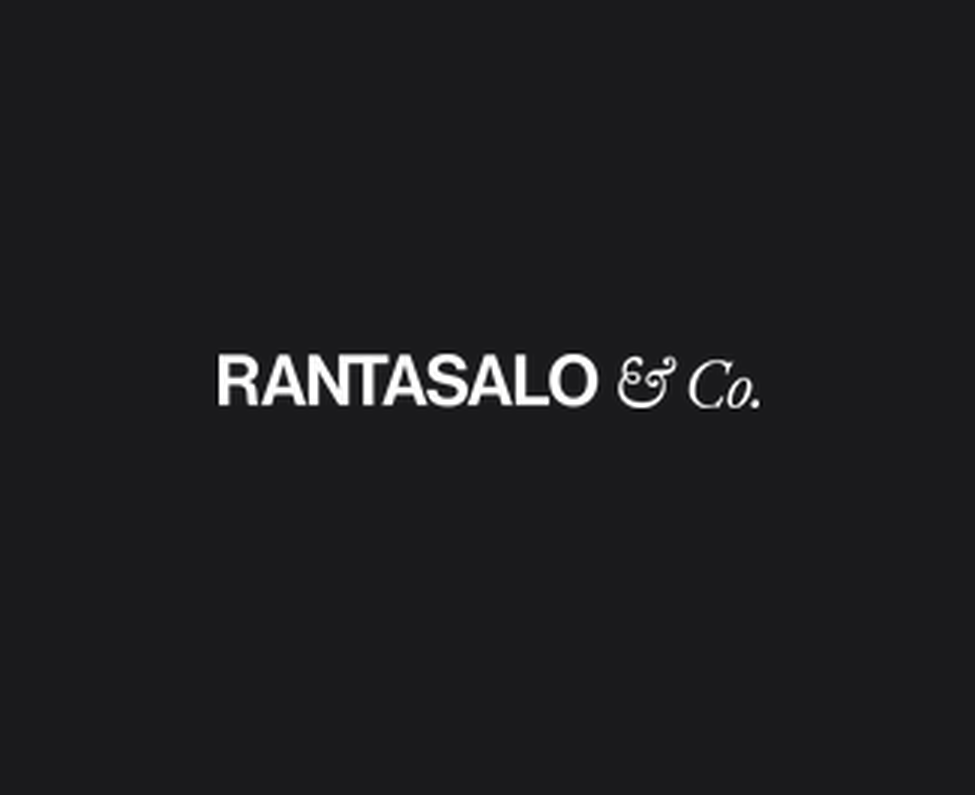
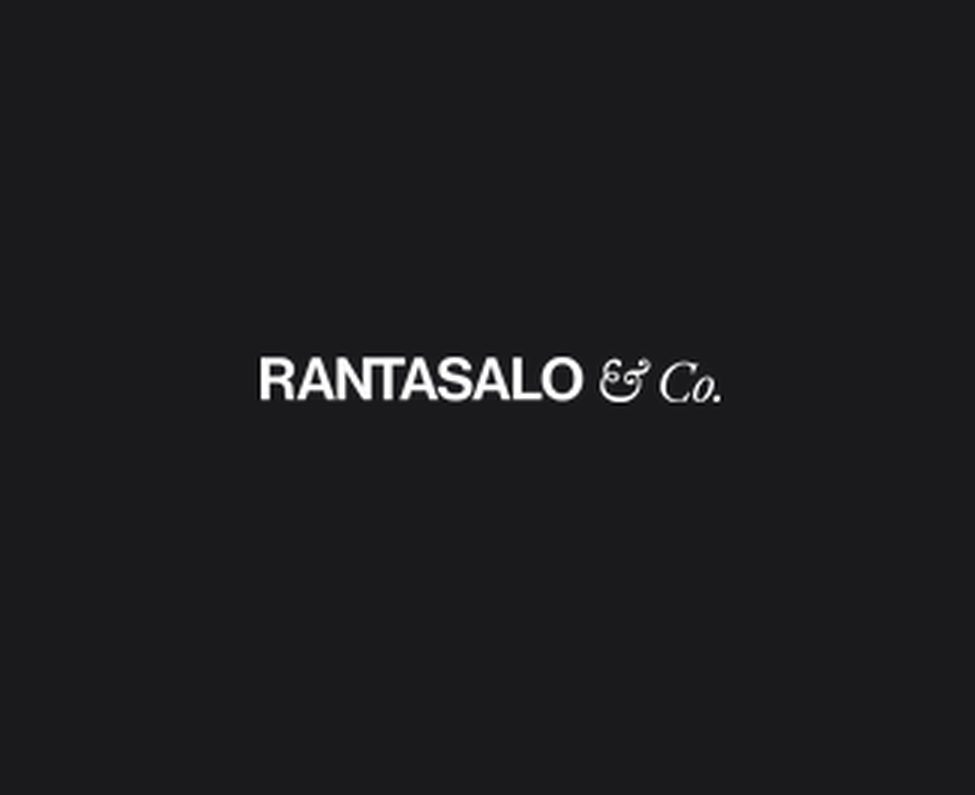
Shrink the wordmark and add a front-door variant
The wordmark drops from 180 px to 153 px, widening the hood's side
margins from 26 px to 40 px. It now covers 53% of the hood island.

Rantasalo_Sides.png puts the same mark on the left and right front
doors instead, leaving the hood clean. Both variants share one length,
because the hood island and the door islands come out at roughly the
same pixels-per-millimetre, so the mark lands at about 80 cm on the car
either way.

The sides are laid out with the front of the car at the top and the roof
towards the middle of the texture, so the two doors take opposite
quarter turns. Relative to the car the text runs front-to-back on the
left and back-to-front on the right, which is what makes it read left to
right from either side. Each mark sits 55% up the door's full-height
band, just above centre the way vehicle lettering usually does.

build_wrap.py now locates the hood and both front doors from the
template itself and builds both variants, checking each mark against
the panel it is meant to be on. preview_doors.png shows each side in
the orientation you see it in, with the panel outlines kept so the
placement is checkable.

Claude-Session: https://claude.ai/code/session_014td8M9stvSXqYS2ebTFEZJ

Changed region(s): [[0.2154, 0.4226, 0.8, 0.5132]]

diff --git a/model3/custom/build_wrap.py b/model3/custom/build_wrap.py
@@ -1,15 +1,14 @@
 #!/usr/bin/env python3
-"""Build the Rantasalo & Co. wrap for a Model 3 (2017-2023).
+"""Build the Rantasalo & Co. wraps for a Model 3 (2017-2023).
 
 Renders the RANTASALO & Co. wordmark from the source PDF, inverts it to
-white, and lays it out on the hood panel of model3/template.png.
+white, and lays it out on model3/template.png in two variants: the mark on
+the hood, or the mark on the left and right front doors.
 
     pip install pillow numpy pymupdf
     python3 build_wrap.py
 
-Outputs Rantasalo_Black.png (the wrap), Rantasalo_Logo_White.png (the
-inverted wordmark on transparency) and preview.png (the wrap with the
-template outline on top, to check panel alignment).
+Writes both wraps, the inverted wordmark for reuse, and previews.
 """
 
 from collections import deque
@@ -32,11 +31,23 @@ SIZE = 1024                 # texture is 1024x1024, same as the template
 # cool rather than dead neutral.
 BACKGROUND = (26, 26, 28)
 INK = (255, 255, 255)       # wordmark colour
-OUTLINE = (92, 92, 92)      # panel outlines, preview.png only
+OUTLINE = (92, 92, 92)      # panel outlines, previews only
 
-LOGO_WIDTH = 180            # wordmark width in texture pixels (~62% of hood width)
-LOGO_CENTER_Y = 293         # texture row the wordmark is centred on
-HOOD_CENTER_X = 511.5       # the hood UV island is symmetric about this column
+# Wordmark length in texture pixels, shared by both variants so they read at
+# the same physical size on the car: the hood island and the door islands work
+# out to roughly the same pixels-per-millimetre.
+LOGO_LENGTH = 153
+
+HOOD_CENTER_Y = 293         # texture row the hood mark is centred on
+SIDE_HEIGHT_FRAC = 0.55     # up the door, 0 at the rocker and 1 at the belt line
+
+# PIL rotates counter-clockwise. The nose of the car is the top of the hood
+# island, so the hood mark is turned 180 to read the right way up from in front
+# of the car. The sides are laid out with the front of the car at the top and
+# the roof towards the middle of the texture, which puts the two doors in
+# opposite quarter turns: each one reads left to right for somebody standing on
+# that side of the car.
+TURN_HOOD, TURN_LEFT, TURN_RIGHT = 180, -90, 90
 
 
 def panel_masks(path):
@@ -68,20 +79,29 @@ def panel_masks(path):
     return masks
 
 
-def hood_mask(path):
-    """The hood is the panel just below the front fascia on the centre line.
+def find_panels(path):
+    """Pick out the hood and the two front doors.
 
     Centre-line islands run front to back down the middle of the texture:
-    fascia, hood, (glass roof), rear deck, rear bumper. The hood is the
-    upper of the two tall centre islands.
+    fascia, hood, (glass roof), rear deck, rear bumper. The sides are stacked
+    down each edge, front door above rear door.
     """
-    centre = []
+    hood, doors = [], []
     for mask in panel_masks(path):
         ys, xs = np.where(mask)
-        if abs((xs.min() + xs.max()) / 2 - SIZE / 2) < 20 and np.ptp(ys) > 150:
-            centre.append((ys.min(), mask))
-    centre.sort(key=lambda item: item[0])
-    return centre[0][1]
+        cx, top, height = (xs.min() + xs.max()) / 2, ys.min(), np.ptp(ys)
+
+        if abs(cx - SIZE / 2) < 20 and height > 150:
+            hood.append((top, mask))
+        elif abs(cx - SIZE / 2) > 200 and height < 300 and len(ys) > 20000:
+            doors.append((top, cx, mask))
+
+    hood.sort(key=lambda item: item[0])
+    doors.sort(key=lambda item: item[0])
+    front = doors[:2]                              # front doors sit above rear
+    left = min(front, key=lambda item: item[1])[2]
+    right = max(front, key=lambda item: item[1])[2]
+    return hood[0][1], left, right
 
 
 def logo_alpha(pdf_path, scale=8):
@@ -99,57 +119,121 @@ def logo_alpha(pdf_path, scale=8):
     return coverage / coverage.max()
 
 
-def main():
-    hood = hood_mask(TEMPLATE)
-    ys, xs = np.where(hood)
-    print(f"hood island: x {xs.min()}-{xs.max()}, y {ys.min()}-{ys.max()}")
+def hood_anchor(panel):
+    """Centre line of the hood island, at the chosen row."""
+    xs = np.where(panel[HOOD_CENTER_Y])[0]
+    return (xs.min() + xs.max()) / 2, HOOD_CENTER_Y
 
-    coverage = logo_alpha(LOGO_PDF)
+
+def door_anchor(panel, frac=SIDE_HEIGHT_FRAC):
+    """A point part way up a door, centred along the length of the car.
+
+    Columns are heights on the car. Whichever edge of the door sits nearer the
+    middle of the texture is the belt line; the outer edge is the rocker.
+    """
+    cols = np.where(panel.any(0))[0]
+    runs = {x: np.ptp(np.where(panel[:, x])[0]) + 1 for x in cols}
+    band = [x for x in cols if runs[x] >= 0.9 * max(runs.values())]
+
+    lo, hi = min(band), max(band)
+    belt, rocker = (lo, hi) if abs(lo - SIZE / 2) < abs(hi - SIZE / 2) else (hi, lo)
+
+    x = int(round(rocker + frac * (belt - rocker)))
+    rows = np.where(panel[:, x])[0]
+    return x, (rows.min() + rows.max()) / 2
+
+
+def stamp(canvas, coverage, turn, anchor, panel, what):
+    """Paint the wordmark into a coverage canvas, centred on anchor."""
     aspect = coverage.shape[1] / coverage.shape[0]
-    height = max(1, round(LOGO_WIDTH / aspect))
+    thickness = max(1, round(LOGO_LENGTH / aspect))
 
-    # Sits on the hood the right way up for someone standing in front of the
-    # car: the nose is the top of the UV island, so the mark is rotated 180.
     mark = Image.fromarray((coverage * 255).astype(np.uint8), "L")
-    mark = mark.resize((LOGO_WIDTH, height), Image.LANCZOS).rotate(180)
+    mark = mark.resize((LOGO_LENGTH, thickness), Image.LANCZOS).rotate(turn, expand=True)
+    art = np.array(mark).astype(np.float64) / 255.0
 
-    x0 = int(round(HOOD_CENTER_X - LOGO_WIDTH / 2))
-    y0 = int(round(LOGO_CENTER_Y - height / 2))
+    h, w = art.shape
+    x0 = int(round(anchor[0] - w / 2))
+    y0 = int(round(anchor[1] - h / 2))
+    window = canvas[y0:y0 + h, x0:x0 + w]
+    np.maximum(window, art, out=window)
 
-    mask = np.zeros((SIZE, SIZE), np.float64)
-    mask[y0:y0 + height, x0:x0 + LOGO_WIDTH] = np.array(mark) / 255.0
+    spill = np.zeros_like(canvas, bool)
+    spill[y0:y0 + h, x0:x0 + w] = art > 0.02
+    if not panel[spill].all():
+        raise SystemExit(f"wordmark spills off the {what} panel")
+    print(f"  {what}: {LOGO_LENGTH}x{thickness} at ({x0}, {y0})")
 
-    if not hood[mask > 0.02].all():
-        raise SystemExit("wordmark spills off the hood panel")
-    print(f"wordmark: {LOGO_WIDTH}x{height} at ({x0}, {y0})")
 
-    wrap = np.zeros((SIZE, SIZE, 3), np.float64)
+def render(canvas):
+    wrap = np.empty((SIZE, SIZE, 3), np.float64)
     wrap[:] = BACKGROUND
-    wrap += mask[..., None] * (np.array(INK, float) - BACKGROUND)
-    wrap = Image.fromarray(np.rint(wrap).astype(np.uint8), "RGB")
-    wrap.save(HERE / "Rantasalo_Black.png", optimize=True)
+    wrap += canvas[..., None] * (np.array(INK, float) - BACKGROUND)
+    return Image.fromarray(np.rint(wrap).astype(np.uint8), "RGB")
+
+
+def guide_preview(wrap, stroke):
+    """The wrap with the template's panel outlines drawn over it."""
+    out = np.array(wrap, np.float64)
+    out += stroke[..., None] * (np.array(OUTLINE, float) - out)
+    return Image.fromarray(np.rint(out).astype(np.uint8), "RGB")
+
+
+def zoom(image, box, turn, scale=3):
+    crop = image.crop(box).rotate(turn, expand=True)
+    return crop.resize((crop.width * scale, crop.height * scale), Image.LANCZOS)
+
+
+def stack(images, gap=12):
+    width = max(i.width for i in images)
+    height = sum(i.height for i in images) + gap * (len(images) - 1)
+    sheet = Image.new("RGB", (width, height), BACKGROUND)
+    y = 0
+    for image in images:
+        sheet.paste(image, ((width - image.width) // 2, y))
+        y += image.height + gap
+    return sheet
+
+
+def main():
+    hood, left_door, right_door = find_panels(TEMPLATE)
+    coverage = logo_alpha(LOGO_PDF)
+
+    print("hood variant")
+    canvas = np.zeros((SIZE, SIZE))
+    stamp(canvas, coverage, TURN_HOOD, hood_anchor(hood), hood, "hood")
+    hood_wrap = render(canvas)
+    hood_wrap.save(HERE / "Rantasalo_Black.png", optimize=True)
+
+    print("sides variant")
+    canvas = np.zeros((SIZE, SIZE))
+    stamp(canvas, coverage, TURN_LEFT, door_anchor(left_door), left_door, "left door")
+    stamp(canvas, coverage, TURN_RIGHT, door_anchor(right_door), right_door, "right door")
+    sides_wrap = render(canvas)
+    sides_wrap.save(HERE / "Rantasalo_Sides.png", optimize=True)
 
     white = np.zeros(coverage.shape + (4,), np.uint8)
     white[..., :3] = 255
     white[..., 3] = np.rint(coverage * 255).astype(np.uint8)
     Image.fromarray(white, "RGBA").save(HERE / "Rantasalo_Logo_White.png", optimize=True)
 
-    # Panel outlines drawn over the wrap, so the layout stays readable on black.
     guide = np.array(Image.open(TEMPLATE).convert("RGBA")).astype(np.float64)
     stroke = (guide[..., 3] / 255.0) * (1.0 - guide[..., :3].mean(-1) / 255.0)
-    preview = np.array(wrap, np.float64)
-    preview += stroke[..., None] * (np.array(OUTLINE, float) - preview)
-    Image.fromarray(np.rint(preview).astype(np.uint8), "RGB").save(
-        HERE / "preview.png", optimize=True
-    )
+    guide_preview(hood_wrap, stroke).save(HERE / "preview.png", optimize=True)
+    guide_preview(sides_wrap, stroke).save(HERE / "preview_sides.png", optimize=True)
 
-    # The hood as it reads to someone standing in front of the car.
-    detail = wrap.crop((350, 155, 675, 420)).rotate(180)
-    detail = detail.resize((detail.width * 3, detail.height * 3), Image.LANCZOS)
-    detail.save(HERE / "preview_hood.png", optimize=True)
+    # The hood as it reads to someone standing in front of the car, and each
+    # side as it reads to someone standing beside it. The doors keep their
+    # outlines, because the point of that shot is where the mark sits on them.
+    zoom(hood_wrap, (350, 155, 675, 420), 180).save(HERE / "preview_hood.png", optimize=True)
+    doors = guide_preview(sides_wrap, stroke)
+    stack([
+        zoom(doors, (20, 350, 240, 860), 90, scale=2),      # left side of car
+        zoom(doors, (784, 350, 1004, 860), -90, scale=2),   # right side of car
+    ]).save(HERE / "preview_doors.png", optimize=True)
 
-    for name in ("Rantasalo_Black.png", "Rantasalo_Logo_White.png",
-                 "preview.png", "preview_hood.png"):
+    for name in ("Rantasalo_Black.png", "Rantasalo_Sides.png", "Rantasalo_Logo_White.png",
+                 "preview.png", "preview_sides.png", "preview_hood.png", "preview_doors.png"):
         print(f"  {name}: {(HERE / name).stat().st_size / 1024:.1f} KB")
 
 

diff --git a/model3/custom/README.md b/model3/custom/README.md
@@ -1,7 +1,12 @@
-# Rantasalo & Co. — Model 3 Wrap
+# Rantasalo & Co. — Model 3 Wraps
 
-Gloss black (`#1A1A1C`) over every panel, with the RANTASALO & Co. wordmark in white
-on the hood.
+Gloss black (`#1A1A1C`) over every panel, with the RANTASALO & Co. wordmark in white.
+Two versions — pick one, or load both and switch between them in the car.
+
+| | |
+| --- | --- |
+| [`Rantasalo_Black.png`](Rantasalo_Black.png) | wordmark on the hood |
+| [`Rantasalo_Sides.png`](Rantasalo_Sides.png) | wordmark on the left and right front doors, hood left clean |
 
 Built for a **2021 Model 3**, which uses the pre-refresh [`model3` template](../template.png).
 2024+ cars use a different UV layout — see [`model3-2024-base`](../../model3-2024-base/)
@@ -9,51 +14,67 @@ or [`model3-2024-performance`](../../model3-2024-performance/).
 
 ## Install
 
-**Upload this file:** [`Rantasalo_Black.png`](Rantasalo_Black.png)
-
 * **Mobile app** (v4.59.0 or later): Creations → Wrap → Upload
-* **USB drive**: put the PNG in a folder called `Wraps` at the root of an exFAT/FAT32 drive
+* **USB drive**: put the PNGs in a folder called `Wraps` at the root of an exFAT/FAT32 drive
 
-Then apply it in the car: Toybox → Paint Shop → Wraps tab.
+Then apply in the car: Toybox → Paint Shop → Wraps tab.
 
 ## Preview
 
 <table>
 <tr>
 <td align="center" valign="top">
-<a href="preview.png"><img src="preview.png" width="420"/></a><br/>
-Panel outlines over the design
+<a href="preview.png"><img src="preview.png" width="380"/></a><br/>
+Hood version
 </td>
 <td align="center" valign="top">
-<a href="preview_hood.png"><img src="preview_hood.png" width="420"/></a><br/>
-The hood, as seen from in front of the car
+<a href="preview_sides.png"><img src="preview_sides.png" width="380"/></a><br/>
+Sides version
+</td>
+</tr>
+<tr>
+<td align="center" valign="top">
+<a href="preview_hood.png"><img src="preview_hood.png" width="380"/></a><br/>
+The hood, seen from in front of the car
+</td>
+<td align="center" valign="top">
+<a href="preview_doors.png"><img src="preview_doors.png" width="380"/></a><br/>
+Left side above, right side below, each as you see it standing beside the car
 </td>
 </tr>
 </table>
 
 ## Design notes
 
-* **Canvas** — 1024×1024 RGB PNG, 10.7 KB. The body colour fills the whole canvas
-  rather than just the panel outlines, so texture filtering can't pull a white
-  fringe in along any panel edge.
+* **Canvas** — 1024×1024 RGB PNG, under 16 KB. The body colour fills the whole
+  canvas rather than just the panel outlines, so texture filtering can't pull a
+  white fringe in along any panel edge.
 * **Body colour** — `#1A1A1C`, not `#000000`. At zero the diffuse term is dead and
   the car renders as a flat silhouette, losing all of its bodyline shape. `#1A1A1C`
   is about 1% linear reflectance, which is where real jet black basecoat sits, and
   the blue channel is lifted by two because automotive blacks read slightly cool
   rather than dead neutral. Tesla's own examples put black between 18 and 35, and
   their `Camo_Stealth` uses the same faint cool cast.
-* **Wordmark** — 180 px wide, ~62% of the hood's 288 px width, centred on the hood's
-  centre line at x 511.5. That leaves roughly 26 px of clear space on each side,
-  and about 110 px ahead of and 90 px behind the mark. On the car the wordmark
-  works out around 90 cm wide.
-* **Orientation** — the nose of the car is the *top* of the hood UV island, so the
-  wordmark is rotated 180° in the texture. That is what makes it read the right
+* **Size** — the wordmark is 153 px long in both versions, which works out to
+  roughly 80 cm on the car either way: the hood island and the door islands come
+  out at about the same pixels-per-millimetre. That is 53% of the hood's 288 px
+  width, leaving 40 px clear on each side, and 69% of the door's 223 px length,
+  leaving 35 px clear fore and aft.
+* **Hood placement** — centred on the island's centre line at row 293, just behind
+  the hood's centroid at row 289. The first ~55 rows of the island are the steeply
+  curved nose, where a top-down unwrap stretches artwork; keeping the mark behind
+  that puts it on the flat of the hood.
+* **Door placement** — 55% of the way up the door's full-height band, so it sits
+  just above centre the way vehicle lettering usually does, and centred along the
+  length of the door.
+* **Orientation** — the nose of the car is the *top* of the hood island, so the
+  hood mark is rotated 180° in the texture; that is what makes it read the right
   way up for someone standing in front of the car, which is also the angle the
-  Paint Shop previews from.
-* **Placement** — sits at row 293, just behind the hood's centroid (row 289). The
-  first ~55 rows of the island are the steeply curved nose, where a top-down
-  unwrap stretches artwork; keeping the mark behind that puts it on the flat part
-  of the hood.
+  Paint Shop previews from. The sides are laid out with the front of the car at the
+  top and the roof towards the middle of the texture, so the two doors take
+  opposite quarter turns. Relative to the car the text therefore runs front-to-back
+  on the left and back-to-front on the right — that is correct, and is what makes
+  it read left to right from either side.
 * **Colour inversion** — the source logo is near-black (`#0A0A0A`) artwork. It is
   inverted by taking the rendered coverage as an alpha mask and painting it white,
   which keeps the antialiased edges clean instead of hard-thresholding them.
@@ -68,18 +89,21 @@ pip install pillow numpy pymupdf
 python3 build_wrap.py
 ```
 
-`BACKGROUND` sets the body colour, and `LOGO_WIDTH` / `LOGO_CENTER_Y` control the
-size and placement of the wordmark. The script fails rather than writing a file if
-the mark would spill off the hood panel.
+The constants at the top control the design: `BACKGROUND` is the body colour,
+`LOGO_LENGTH` the size of the wordmark, `HOOD_CENTER_Y` how far back it sits on the
+hood, and `SIDE_HEIGHT_FRAC` how high it sits on the doors. The script finds the
+hood and door panels from the template itself, and fails rather than writing a file
+if the mark would spill off the panel it is meant to be on.
 
 ## Files
 
 | File | What it is |
 | --- | --- |
-| `Rantasalo_Black.png` | The wrap. This is the file to upload to the car. |
+| `Rantasalo_Black.png` | The wrap with the wordmark on the hood. Upload this to the car. |
+| `Rantasalo_Sides.png` | The wrap with the wordmark on both front doors. Upload this to the car. |
 | `Rantasalo_Logo_White.png` | The wordmark inverted to white on transparency, 9732×968, for reuse elsewhere. |
-| `preview.png` | The design with the template's panel outlines drawn over it. |
-| `preview_hood.png` | The hood, rotated to the orientation you see it in on the car. |
+| `preview.png`, `preview_sides.png` | Each design with the template's panel outlines drawn over it. |
+| `preview_hood.png`, `preview_doors.png` | Detail shots, rotated to the orientation you see them in on the car. |
 | `build_wrap.py` | Build script. |
 | `rantasaloco_logo.pdf` | Source logo. |
 

diff --git a/model3/README.md b/model3/README.md
@@ -37,9 +37,11 @@ Download the template below and customize it with your own design. For complete 
 
 <p>
 <a href="custom/"><img src="custom/preview.png" width="150"/></a>
+<a href="custom/"><img src="custom/preview_sides.png" width="150"/></a>
 </p>
 
-[Rantasalo & Co.](custom/) — gloss black (`#1A1A1C`) with the company wordmark in white on the hood.
+[Rantasalo & Co.](custom/) — gloss black (`#1A1A1C`) with the company wordmark in white,
+on the hood or on both front doors.
 
 ---
 
